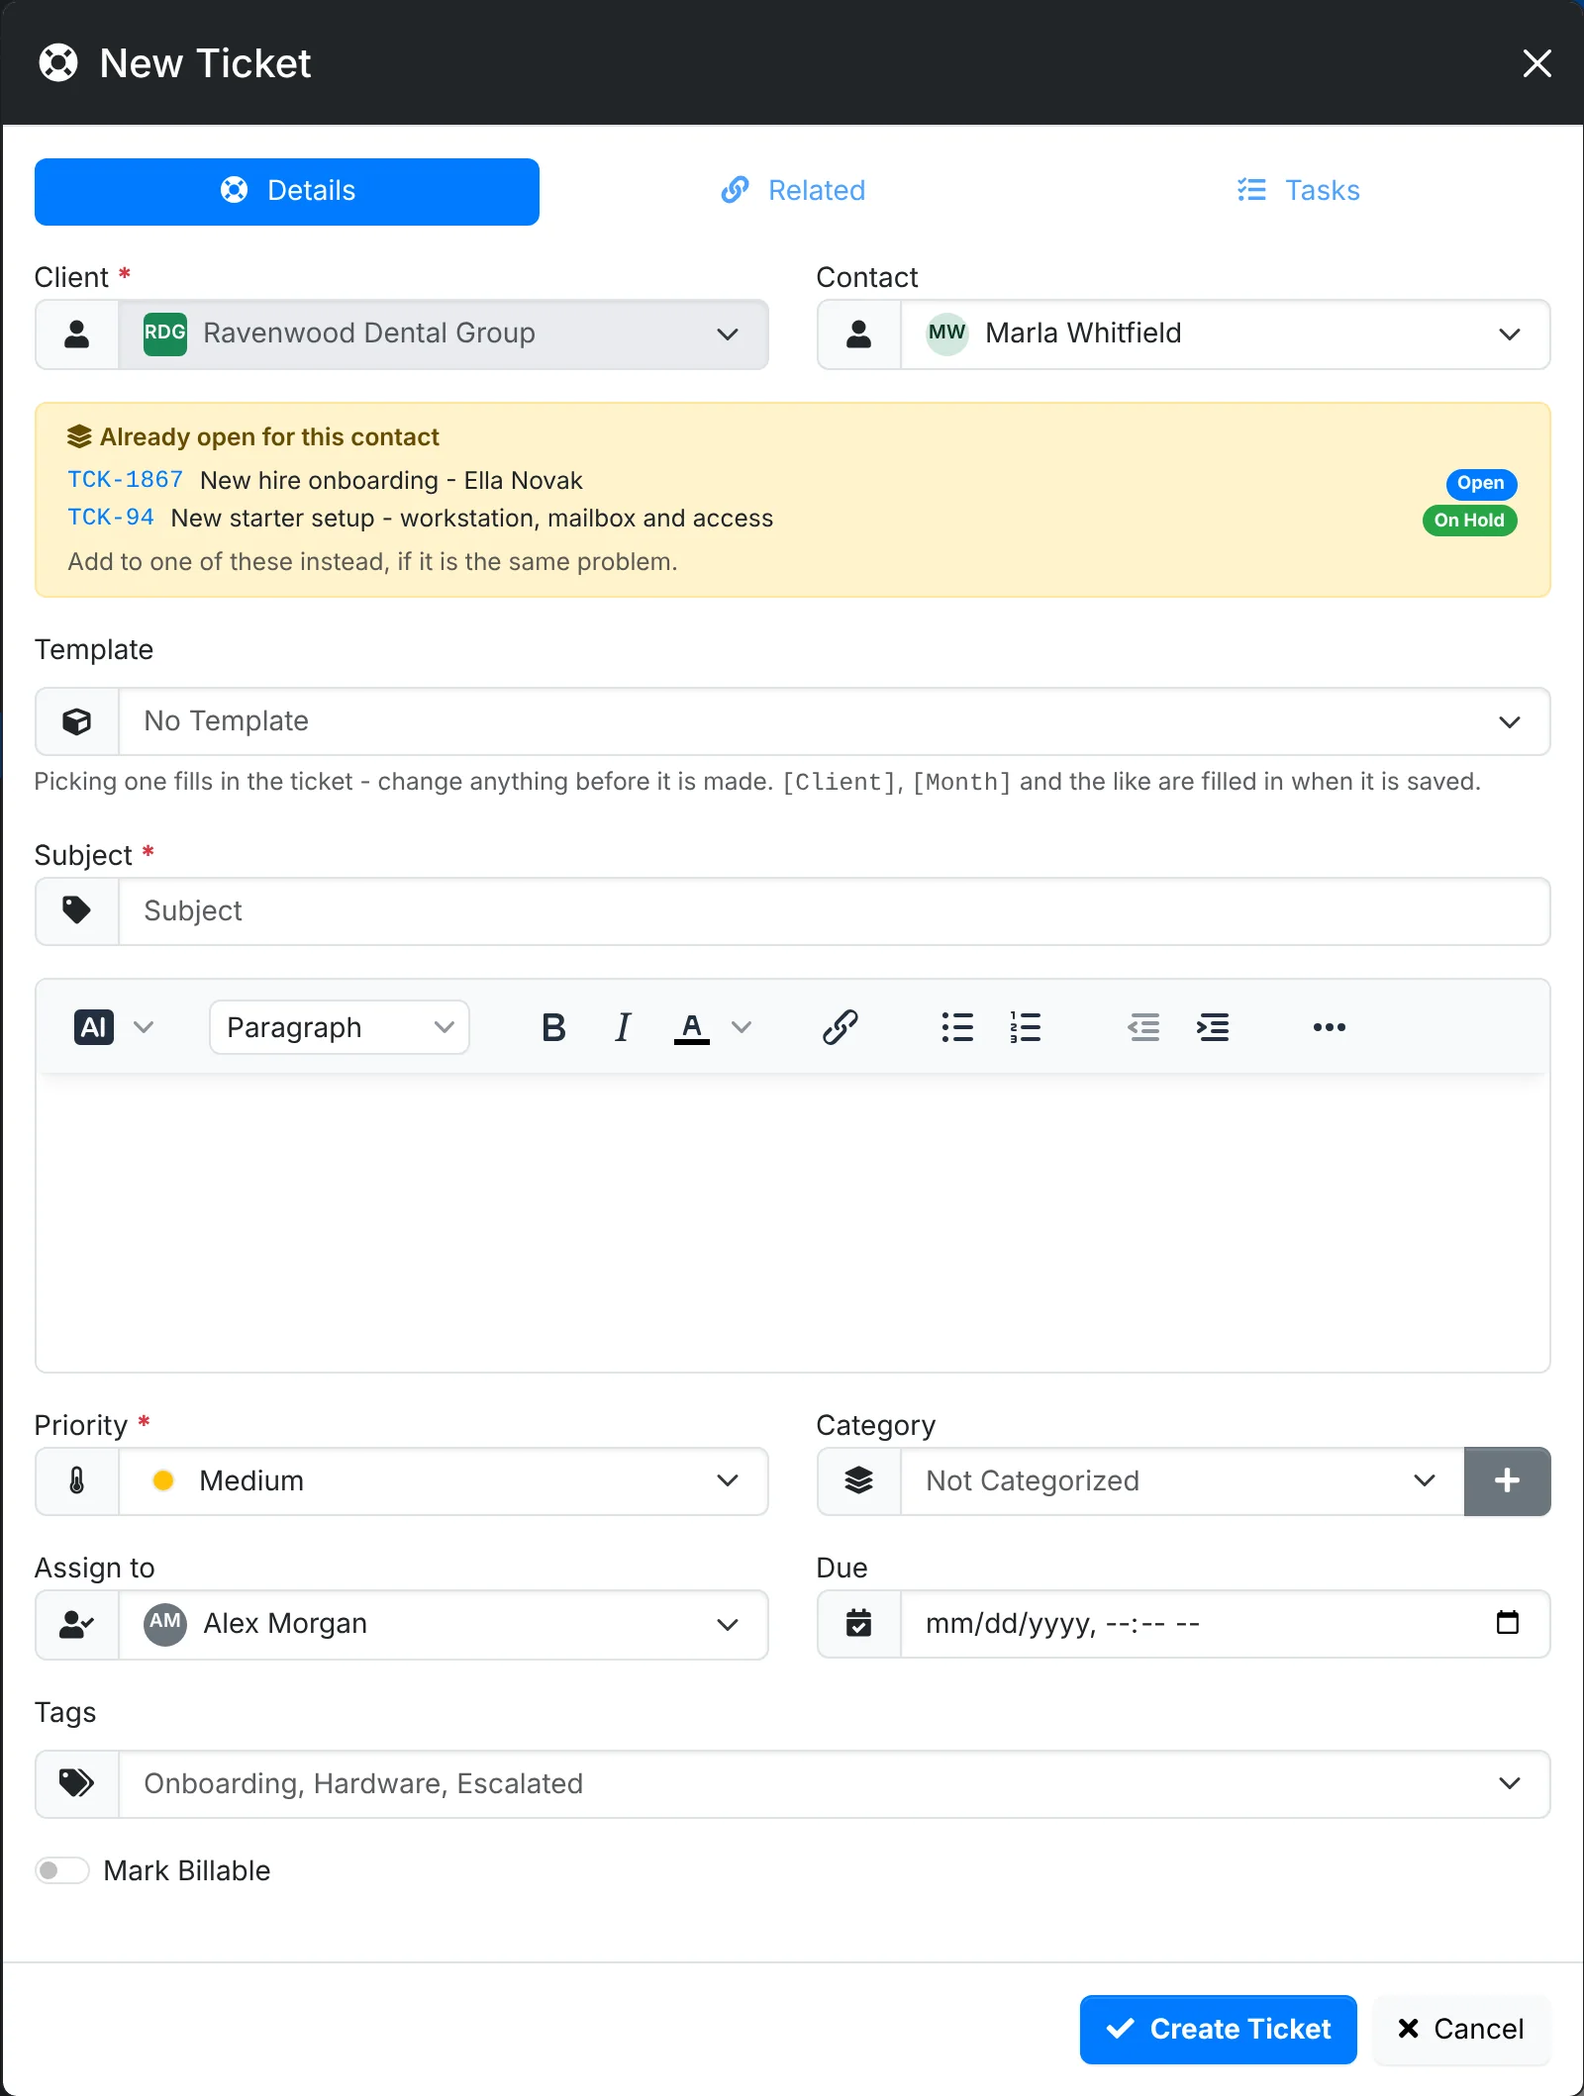
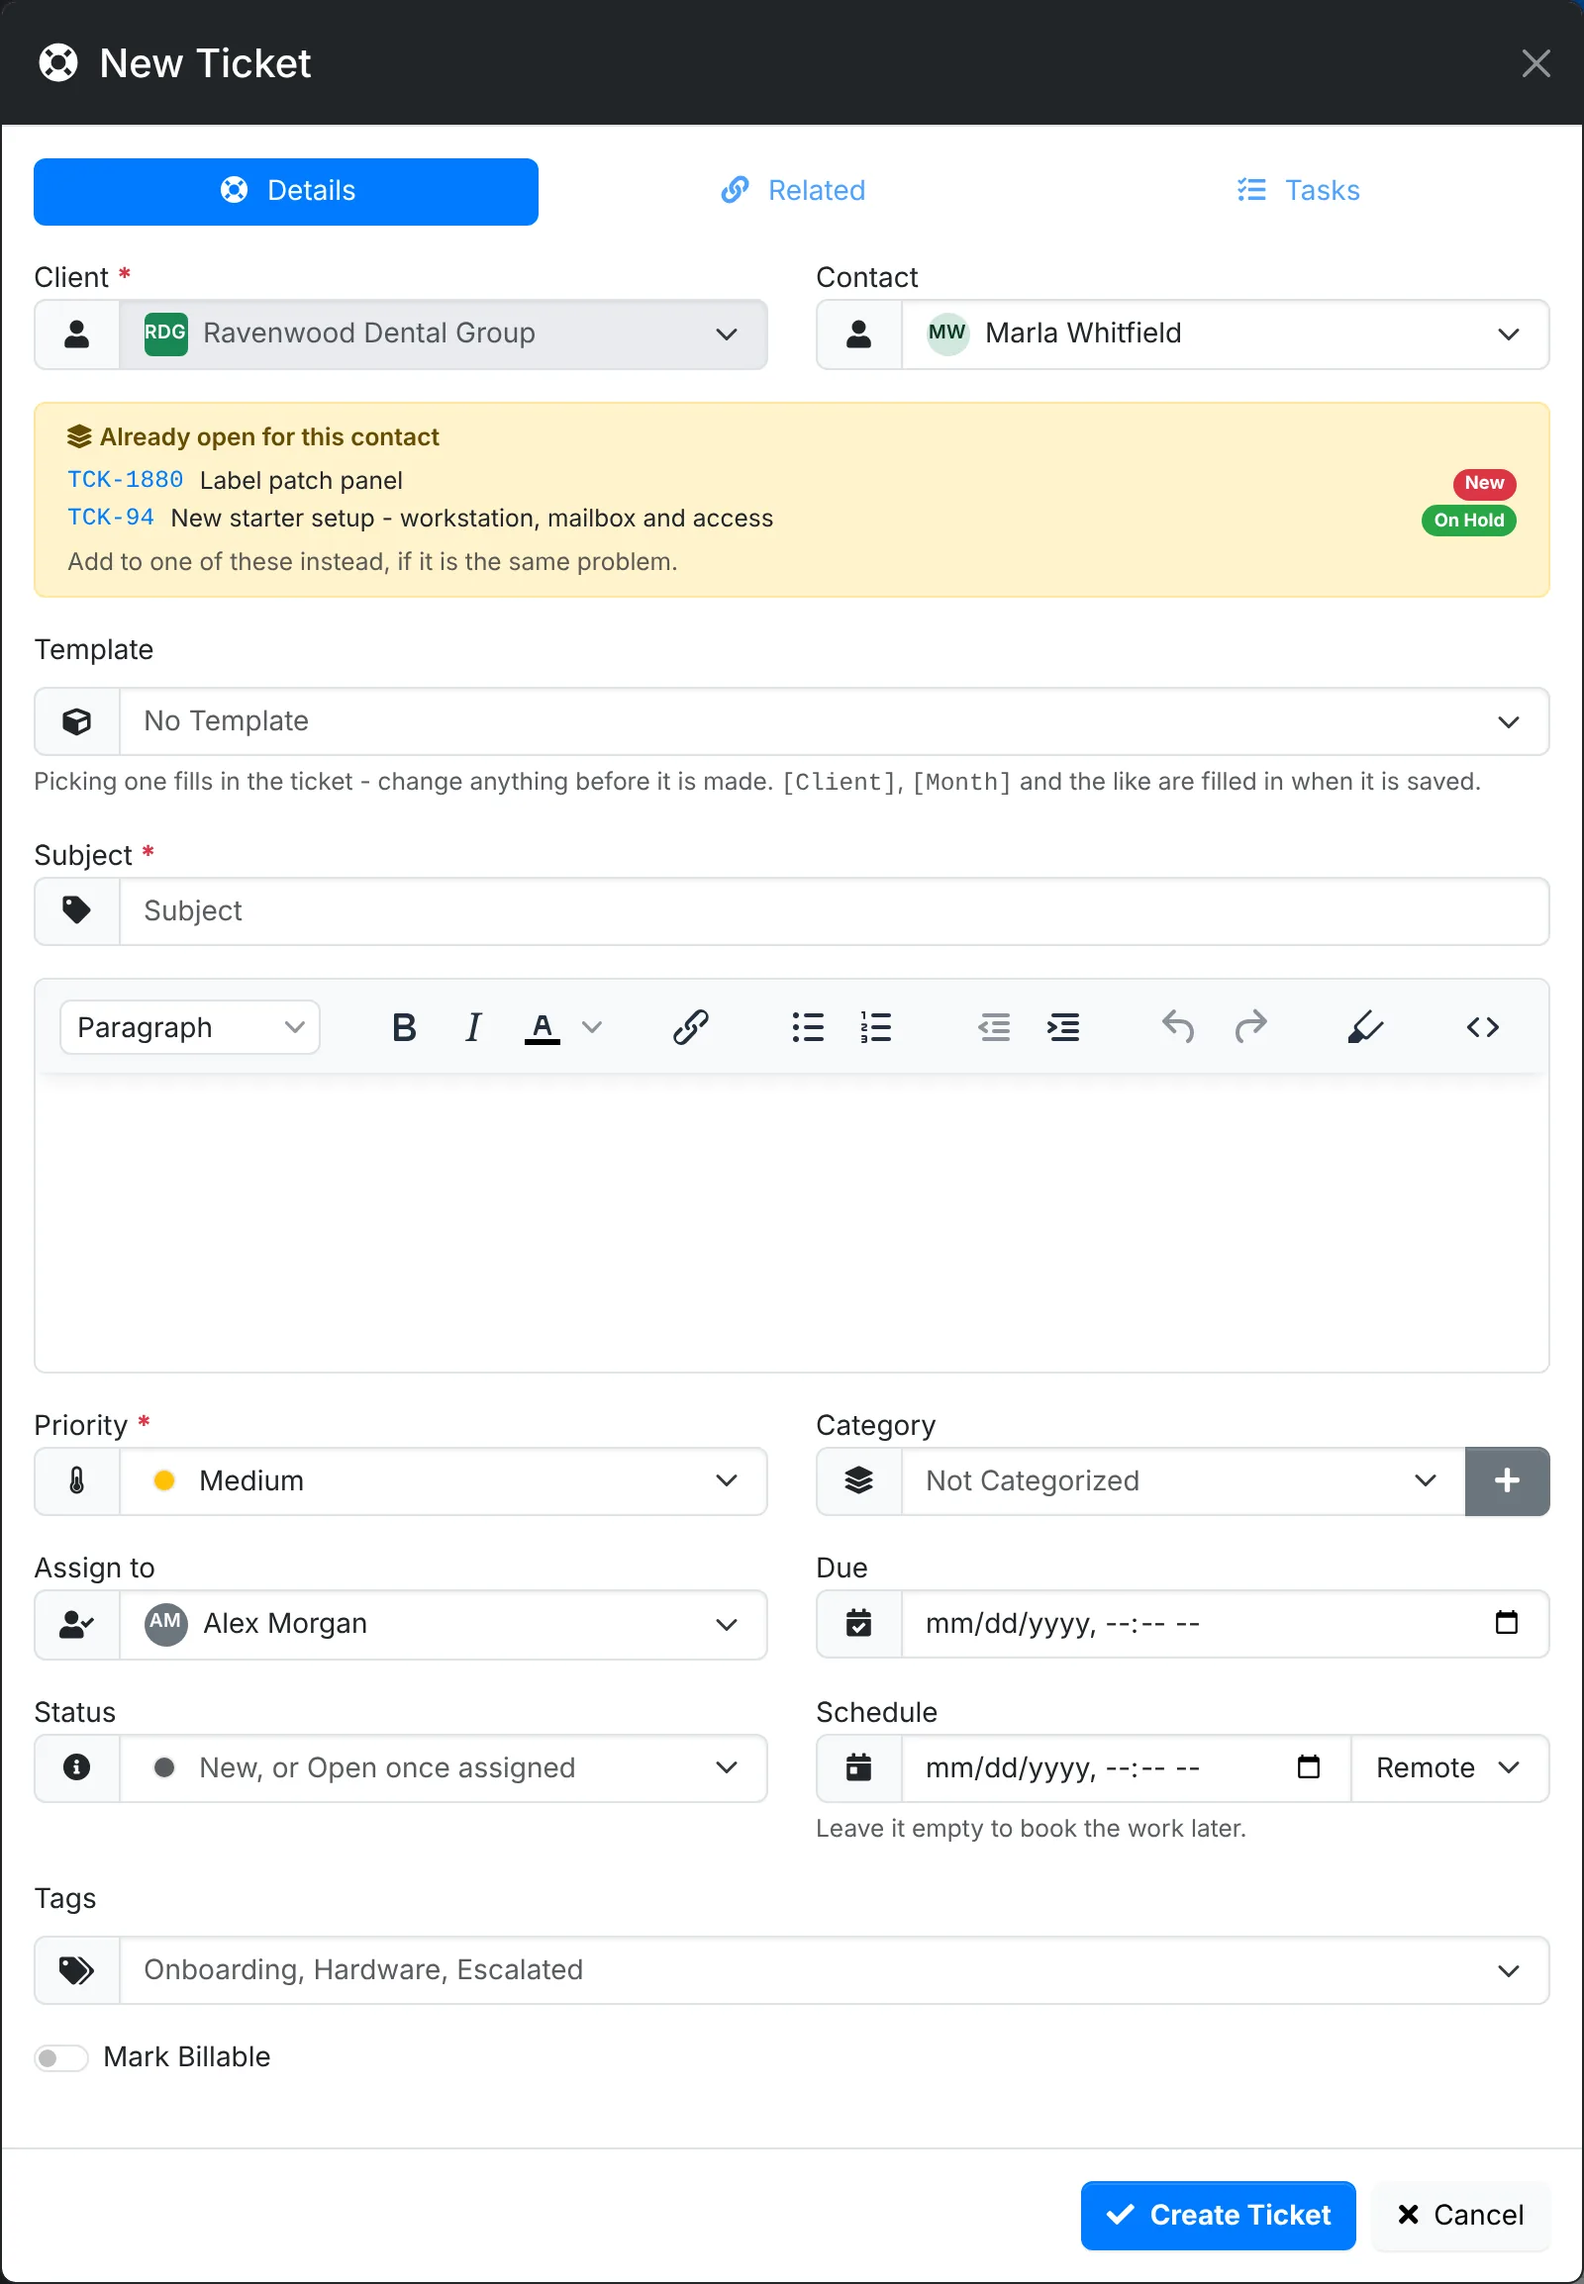
Docs: Raising a ticket covers the Status a ticket starts in and booking the work from New Ticket, with a new New Ticket screenshot

diff --git a/content/service-desk/new-ticket.md b/content/service-desk/new-ticket.md
@@ -20,14 +20,16 @@ Tickets reach ITFlow in several ways:
    - Pick a **Template** if one fits (see below).
    - Type the **Subject** and the details.
    - Set the **Priority**, the **Category**, who to **Assign to**, and a **Due** date if it has one.
+   - Pick the **Status** it starts in, if not the usual - it's New, or Open once it's assigned.
+   - To book the work now, set the **Schedule** date and time, and **Remote** or **Onsite**. Leave it empty to book it later from the ticket.
    - Add **Tags**, and switch on **Mark Billable** if the client pays for this work.
 3. On **Related**, link the **Asset** it's about (and **Other assets**), the **Site**, a **Project**, and a **Vendor** with **Their reference** if a vendor is involved. Add **Watchers** - people who get a copy of every emailed reply.
 4. On **Tasks**, add the steps to work through.
 5. Click **Create Ticket**.
 
-![The New Ticket window](sd-new-ticket.webp "New Ticket: who it's for, what it's about, and who's on it. Open tickets for the contact show at the top.")
+![The New Ticket window](sd-new-ticket.webp "New Ticket: who it's for, what it's about, who's on it, and the status and schedule it starts with. Open tickets for the contact show at the top.")
 
-The contact gets an email saying their ticket is raised, when client emails are on, and the technician you assigned it to is told.
+The contact gets an email saying their ticket is raised, when client emails are on, and the technician you assigned it to is told. Work you scheduled is booked as it is from the ticket's **Schedule** window: the technician, and the contact and watchers when client emails are on, get the time with a calendar invite - see [Book a visit or a call](/service-desk/working-a-ticket#book-a-visit-or-a-call).
 
 ## Start from a template
 
